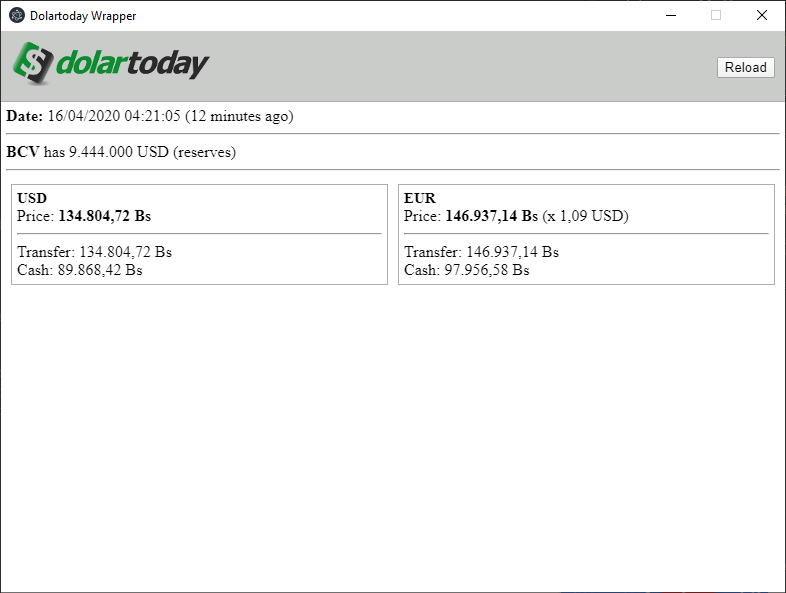
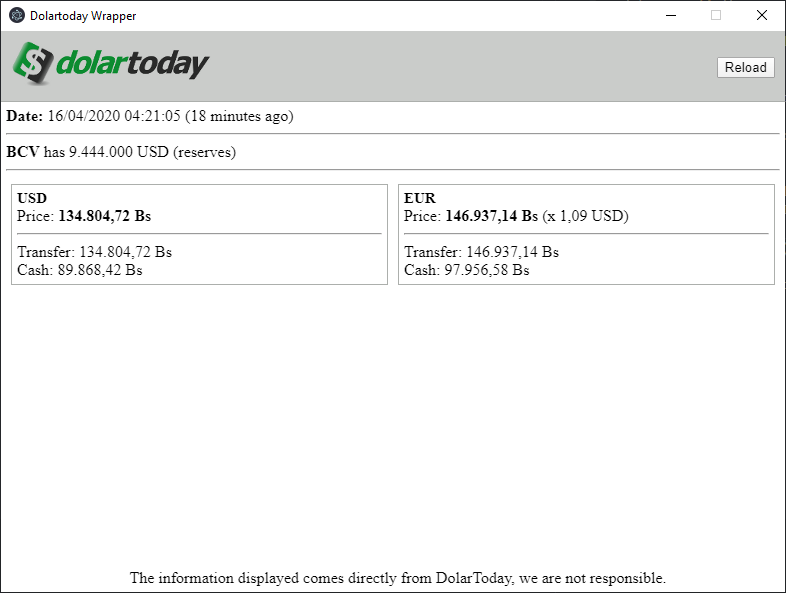
Add footer

Changed region(s): [[0.1527, 0.9713, 0.855, 1.0], [0.2443, 0.1821, 0.2748, 0.2125]]

diff --git a/react-app/views/main/main.view.tsx b/react-app/views/main/main.view.tsx
@@ -5,6 +5,7 @@ import { DolartodayComponent } from '../../components/dolar-today/dolar-today.co
 
 import './main.view.scss'
 import { HeaderComponent } from '../../components/header/header'
+import { FooterComponent } from '../../components/footer/footer.component'
 
 const { ipcRenderer } = window.require('electron')
 
@@ -69,6 +70,7 @@ export class MainView extends React.Component<{}, IMainViewState> {
         <div id='body'>
           {this.renderData()}
         </div>
+        <FooterComponent/>
       </>
     )
   }

diff --git a/react-app/components/footer/footer.component.tsx b/react-app/components/footer/footer.component.tsx
@@ -1,0 +1,11 @@
+import * as React from 'react'
+
+import './footer.scss'
+
+export function FooterComponent () {
+  return (
+    <div id='footer'>
+      The information displayed comes directly from DolarToday, we are not responsible.
+    </div>
+  )
+}

diff --git a/react-app/components/footer/footer.scss b/react-app/components/footer/footer.scss
@@ -1,0 +1,7 @@
+#footer {
+  position: fixed;
+  bottom: 0;
+  width: 100%;
+  padding: 5px;
+  text-align: center;
+}
